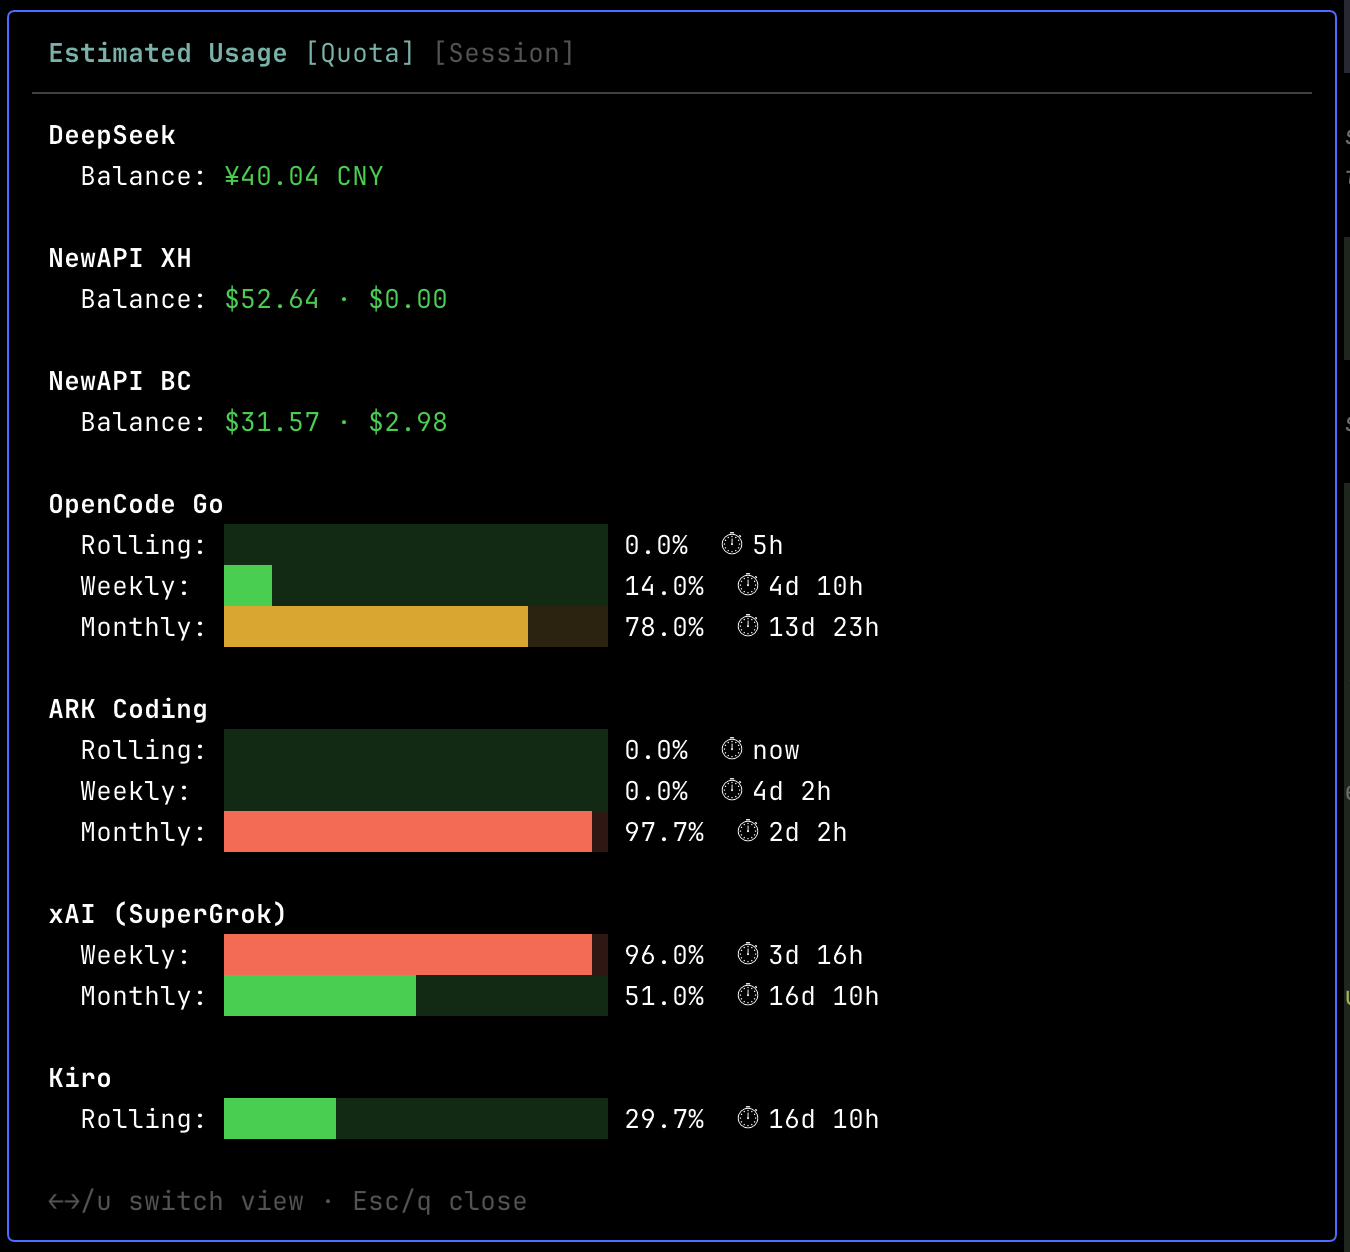
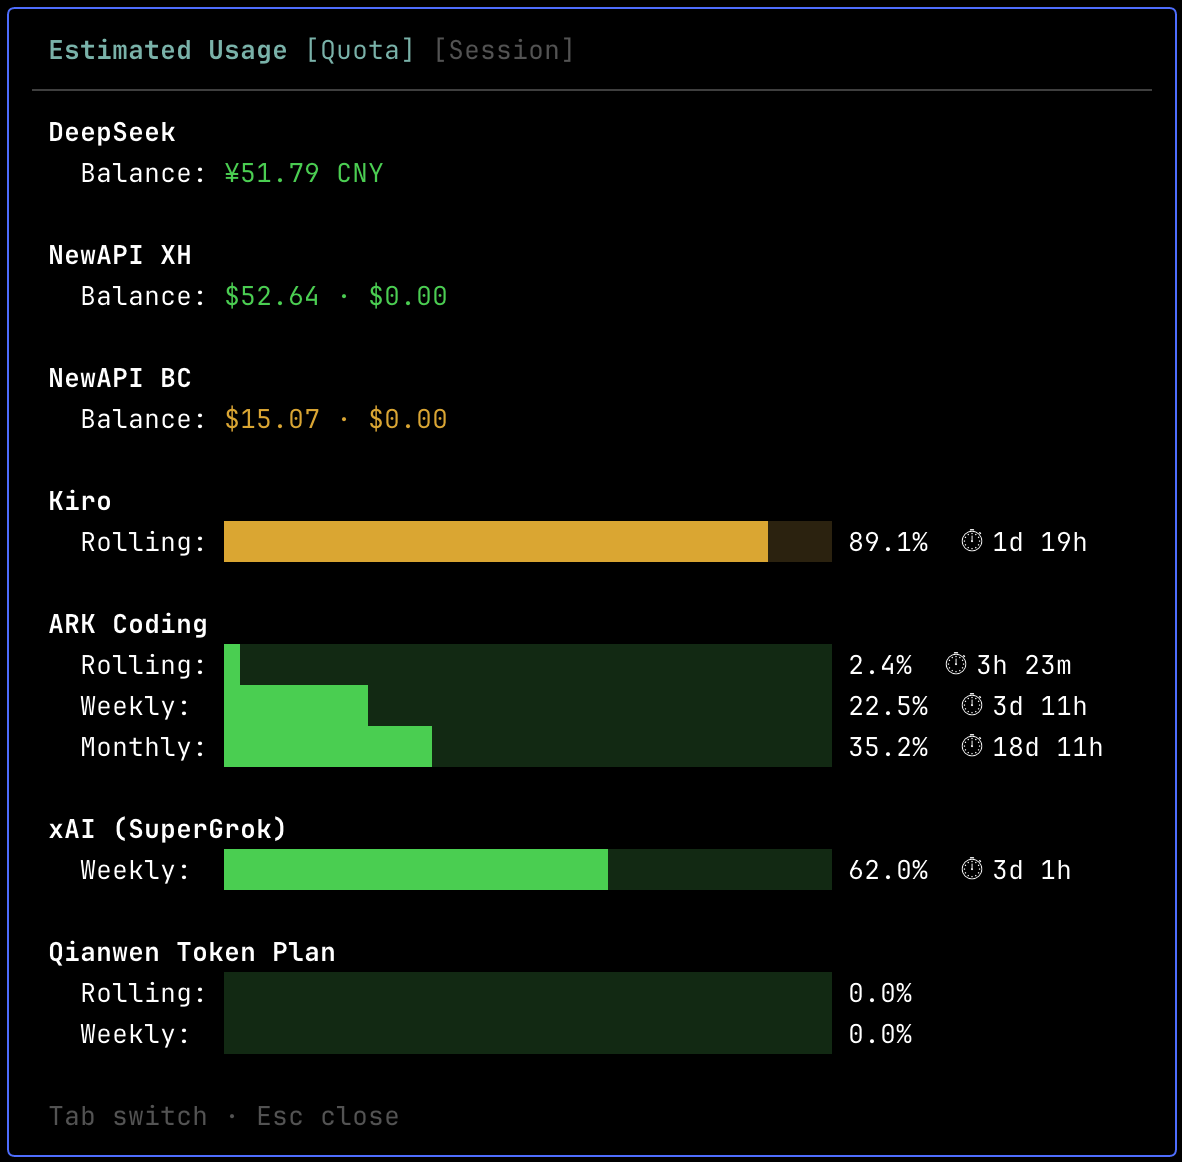
docs: refresh panel screenshots and raise min width
- replace quota panel image; add session panel screenshot
- minWidth 74 → 80

diff --git a/index.ts b/index.ts
@@ -189,7 +189,7 @@ export default function register(pi: ExtensionAPI) {
           const termWidth = process.stdout.columns ?? 80;
           return {
             width: Math.min(Math.floor(termWidth * 0.65), 100),
-            minWidth: 74,
+            minWidth: 80,
             maxHeight: "80%",
             anchor: "center",
             visible: (_tw, termHeight) => {

diff --git a/README.md b/README.md
@@ -27,6 +27,8 @@ Inside the panel, **Tab** switches between Quota and Session. In the Quota view,
 
 ![pi-usage-hub quota panel](assets/usage-hub-panel.png)
 
+![pi-usage-hub session panel](assets/usage-hub-session.png)
+
 ## Configuration
 
 Create `~/.pi/agent/pi-usage-hub.json`. Provider order is preserved in the panel.
